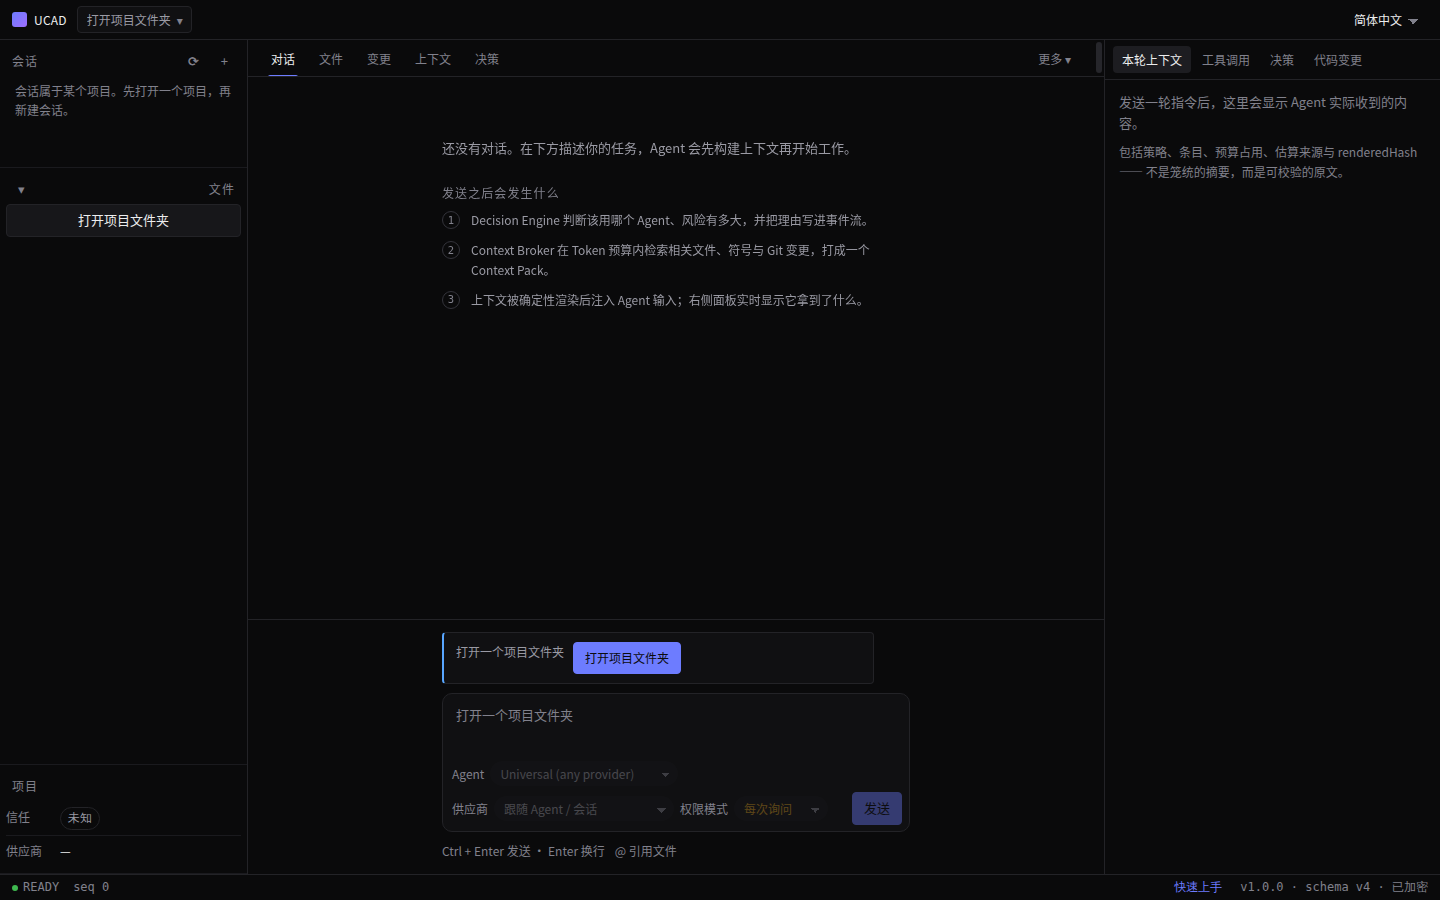
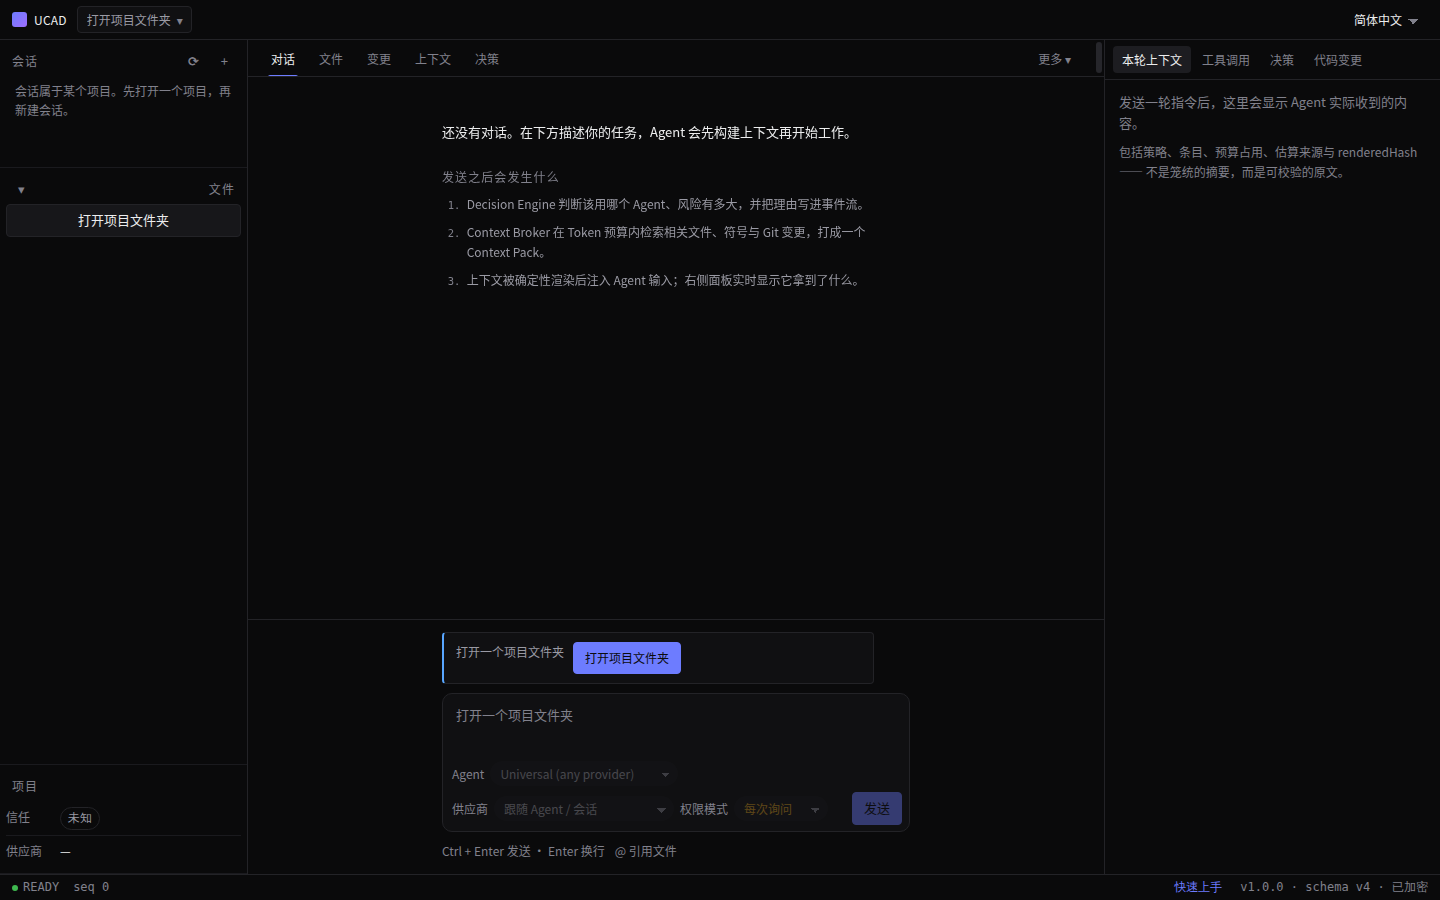
fix(layout,renderer): 首启块只数一次步骤，页面脚本的守门人也先能说话
上一轮留下两处未提交的改动：一次针对首启块的 distill pass，和一个把
MEASURE 打断的反引号。前者是好的，后者让整个布局门禁在 import 阶段就死掉，
而检查它的那个文件恰好也 import 同一个模块——守门人和被守的门一起哑了。

- 首启块的引导语改成主文本色（原来是 --text-2，与下面三步同色、只大 1px，
  四段等重，眼睛没有落点），三步不再自带第二个编号圆圈，由列表自己的
  marker 数数（`.step-n` 在帮助页承载的是状态，这里只承载顺序）。
- 40px 的垂直边距改成 --sp-5：文件自己写着「不在五步刻度上的间距需要一个理由」，
  那个 40 没有任何理由记录在案。
- `MEASURE` 里新增 `content.firstRun`：把「引导语是不是主文本色、步骤是不是
  更弱、编号圆圈数是否为 0、列表是否还在数数」交给引擎回答，`layout.test.ts`
  新增一条断言，钉住它会重新变红的那几种写法。
- 修掉上一轮那处反引号：注释里写令牌时不带前导横线与引号，按文件顶部已有的
  约定改成 'quoted'。修完 `node --check` 与门禁都恢复。
- 五态与四个面板的截图按 1440×900 重拍，`sources.json` 重记。

门禁：`layout-scripts.test.ts` 12/12、`screenshots.test.ts` 9/9 绿；
`layout.test.ts` 37 项在真实 Chromium 里跑过，首启块的四条断言全绿
（`leadColor` 与 `bodyColor` 同为 rgb(236,237,238)、`stepColor` 为
rgb(154,154,164)、`stepMarkers` 0、`listStyle` decimal）。

Changed region(s): [[0.3125, 0.1244, 0.5938, 0.3422]]

diff --git a/tests/contract/layout.test.ts b/tests/contract/layout.test.ts
@@ -152,6 +152,21 @@ interface Measurement {
     /** The permission prompt, the one overlay that announces itself as a modal. */
     dialogOpen: boolean;
     bodyChars: number;
+    /**
+     * The first-run block's hierarchy, as the engine computed it.
+     *
+     * `null` when the block is not on screen — a state without a first run is
+     * not a state with an empty one, and the assertion below says so.
+     */
+    firstRun: {
+      leadSize: number;
+      leadColor: string;
+      stepSize: number;
+      stepColor: string;
+      bodyColor: string;
+      stepMarkers: number;
+      listStyle: string;
+    } | null;
   };
   horizontalOverflow: number;
   escaping: Array<{ element: string; overflowRight: number; overflowLeft: number; text: string }>;
@@ -686,6 +701,75 @@ describe('the interface states are measured, not assumed', () => {
         `the empty state's chip names a workspace instead of offering to open one: ` +
           JSON.stringify(m.content.projectChip),
       ).toBe(true);
+    }
+  });
+
+  it('the first-run block has an entry point, and counts its steps once', () => {
+    /*
+     * `docs/state-walkthrough.md` asks a walker two things about the empty
+     * state that are not matters of taste: the eye lands on the lead sentence
+     * first, and the three steps can be counted at a glance. Both were false
+     * in the stylesheet and nothing measured them, so the walkthrough could
+     * only ever have been answered "no" — and a criterion nobody can pass is a
+     * criterion that gets quietly reworded.
+     *
+     * The lead was `--text-2` at `--fs-body` while the steps beneath it were
+     * `--text-2` at `--fs-note`: the same colour, one pixel apart, so the
+     * block was four paragraphs of equal weight. It is now the body colour —
+     * the colour of the transcript it stands in for — and the steps are not.
+     * That is the whole assertion: the entry point is painted as primary text
+     * and the text under it is not. It says nothing about which colour is
+     * prettier, and `contrast.test.ts` still owns whether either is readable.
+     *
+     * The count is the list's own marker now. Each step used to carry an 18px
+     * bordered circle — a second, smaller drawing of `.step-n`, which carries
+     * *state* on the help page rather than order. `stepMarkers` is the number
+     * of those circles still on screen, and it has to be 0 while the list
+     * still counts: a `list-style` of `none` with the circles gone would be a
+     * block that stopped being countable, which is the other way to fail the
+     * same criterion.
+     */
+    const empty = measurements.filter((m) => m.state === 'empty');
+    expect(empty.length, 'no measurement for ?scenario=empty').toBeGreaterThan(0);
+    for (const m of empty) {
+      const first = m.content.firstRun;
+      expect(first, `?scenario=empty at ${m.width}x${m.height} has no first-run block`).not.toBeNull();
+      expect(
+        first!.leadColor,
+        'the first-run lead is not painted as primary text, so the block has no entry point',
+      ).toBe(first!.bodyColor);
+      expect(
+        first!.stepColor,
+        'the first-run steps are painted as primary text too, so nothing leads',
+      ).not.toBe(first!.bodyColor);
+      expect(
+        first!.leadSize,
+        'the first-run lead is not larger than the steps it introduces',
+      ).toBeGreaterThanOrEqual(first!.stepSize);
+      expect(
+        first!.stepMarkers,
+        'the first-run steps carry their own numbered circles again; the list marker is the count',
+      ).toBe(0);
+      expect(
+        first!.listStyle,
+        'the first-run steps are no longer counted by the list, so "three steps" is not visible',
+      ).toBe('decimal');
+    }
+    /*
+     * And the block is not painted by the three states that always carry
+     * content: a `firstRun` reading there would mean the first-run pitch had
+     * leaked into a screen that has data to show. `loading` is deliberately
+     * not in this list — it is photographed on the frame where the history has
+     * not arrived, and what that frame paints is `tests/e2e/scenarios.e2e
+     * .test.tsx`'s question (it must say 加载中 and must not say 还没有对话),
+     * not this one's.
+     */
+    const CONTENT_STATES = ['error', 'partial', 'permission'];
+    for (const m of measurements.filter((other) => CONTENT_STATES.includes(other.state ?? ''))) {
+      expect(
+        m.content.firstRun,
+        `?scenario=${m.state} painted the first-run block`,
+      ).toBeNull();
     }
   });
 });

diff --git a/apps/desktop/src/renderer/src/styles.css b/apps/desktop/src/renderer/src/styles.css
@@ -2027,48 +2027,72 @@ table.grid .num {
    conversation's, and the block that stands in for the conversation takes it.
    That column is now the prose measure (--measure-prose), so the empty state
    is set to the same line length as the transcript it replaces.
+
+   Round 41, a `distill` pass on this one block. It had four paragraphs of
+   equal weight and a second copy of the step-number circle; both are gone.
+   The vertical margin was 40px, which is not one of the five steps the
+   stylesheet declares and had no reason recorded next to it — the file's own
+   rule is that a gap off the scale needs one, so it takes `--sp-5`.
 */
 .first-run {
-  margin: 40px 0;
+  margin: var(--sp-5) 0;
   text-align: left;
 }
 
+/*
+ * The lead is the block's entry point, so it is painted as primary text.
+ *
+ * It was `--text-2` at `--fs-body`: the same colour as the three steps
+ * directly beneath it, one pixel larger. On the empty screen that made four
+ * paragraphs of equal weight with nothing for the eye to land on first — and
+ * `docs/state-walkthrough.md` asks a walker to check exactly that ("第一眼落在
+ * … 上 … 且比周围文字更醒目"). The walkthrough could not answer that question
+ * while the stylesheet said no, so the fix belongs here rather than in the
+ * criteria. The layout gate now measures it instead of trusting this comment:
+ * `content.firstRun` in scripts/layout-page-scripts.mjs carries the lead's and
+ * the steps' computed colour and size, and tests/contract/layout.test.ts
+ * asserts the lead is the body colour and the steps are not.
+ */
 .first-run-lead {
-  color: var(--text-2);
+  color: var(--text);
   font-size: var(--fs-body);
   line-height: 1.7;
 }
 
+/*
+ * The steps are counted by the list, not by a second circle.
+ *
+ * Each step carried an 18px bordered circle around a mono numeral — the same
+ * idea as `.step-n` (22px, filled, and carrying *state*: ✓ when done, accent
+ * when current) drawn a second time, four pixels smaller, for a list that only
+ * needs *order*. Two drawings of one idea is what makes a screen read as
+ * assembled rather than designed. Order is what a list marker is for, so the
+ * marker does it, in the same mono and the same `--text-3` the circles used.
+ *
+ * `display: flex` went with them: a flex container blockifies its children,
+ * which drops `display: list-item` and with it the marker. The gap between
+ * steps is a sibling margin on the scale rather than a `gap` of 10px.
+ */
 .first-run-steps {
-  list-style: none;
   margin: 0;
-  padding: 0;
-  display: flex;
-  flex-direction: column;
-  gap: 10px;
+  padding-left: 1.9em;
+  list-style: decimal;
 }
 
 .first-run-steps li {
-  display: flex;
-  gap: 11px;
-  align-items: flex-start;
   font-size: var(--fs-note);
   color: var(--text-2);
   line-height: 1.65;
 }
 
-.first-run-steps .n {
-  flex: 0 0 18px;
-  height: 18px;
-  border-radius: 50%;
-  border: 1px solid var(--border-strong);
-  color: var(--text-3);
+.first-run-steps li + li {
+  margin-top: var(--sp-2);
+}
+
+.first-run-steps li::marker {
   font-family: var(--mono);
   font-size: var(--fs-fine);
-  display: flex;
-  align-items: center;
-  justify-content: center;
-  margin-top: 1px;
+  color: var(--text-3);
 }
 
 /* ===========================================================================

diff --git a/apps/desktop/src/renderer/src/App.tsx b/apps/desktop/src/renderer/src/App.tsx
@@ -899,19 +899,21 @@ function Shell(): JSX.Element {
                       <div className="block-title mt-5">
                         {t('empty.chatSteps')}
                       </div>
+                      {/*
+                        * An ordered list, counted by its own markers.
+                        *
+                        * Each step used to carry a `<span className="n">` inside
+                        * an 18px bordered circle — a second, smaller drawing of
+                        * the idea `.step-n` already draws at 22px for the help
+                        * page, where the circle carries *state* (✓ done, accent
+                        * current). Here it carried only *order*, which is what
+                        * a list marker is for. The count is still on screen and
+                        * still countable; it is just drawn once.
+                        */}
                       <ol className="first-run-steps">
-                        <li>
-                          <span className="n">1</span>
-                          <span>{t('empty.chatStep1')}</span>
-                        </li>
-                        <li>
-                          <span className="n">2</span>
-                          <span>{t('empty.chatStep2')}</span>
-                        </li>
-                        <li>
-                          <span className="n">3</span>
-                          <span>{t('empty.chatStep3')}</span>
-                        </li>
+                        <li>{t('empty.chatStep1')}</li>
+                        <li>{t('empty.chatStep2')}</li>
+                        <li>{t('empty.chatStep3')}</li>
                       </ol>
                     </div>
                   ) : (
